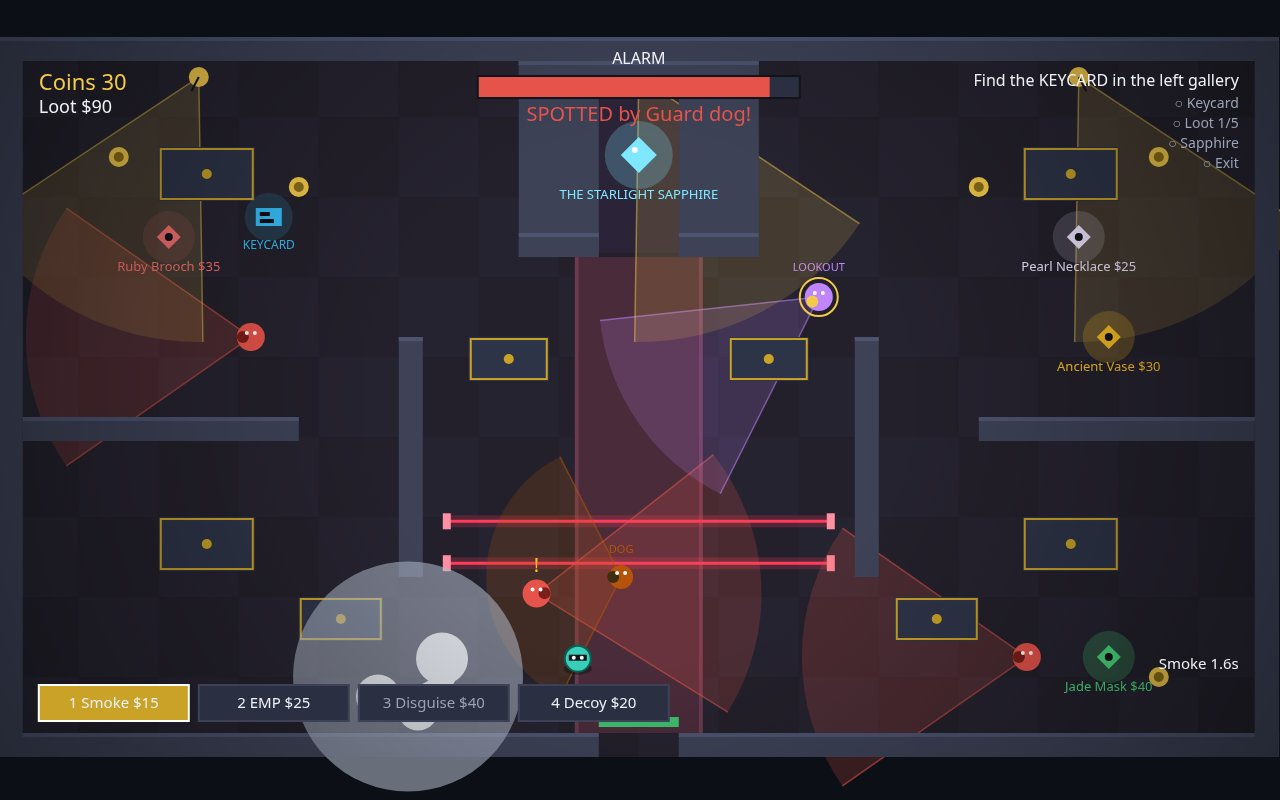
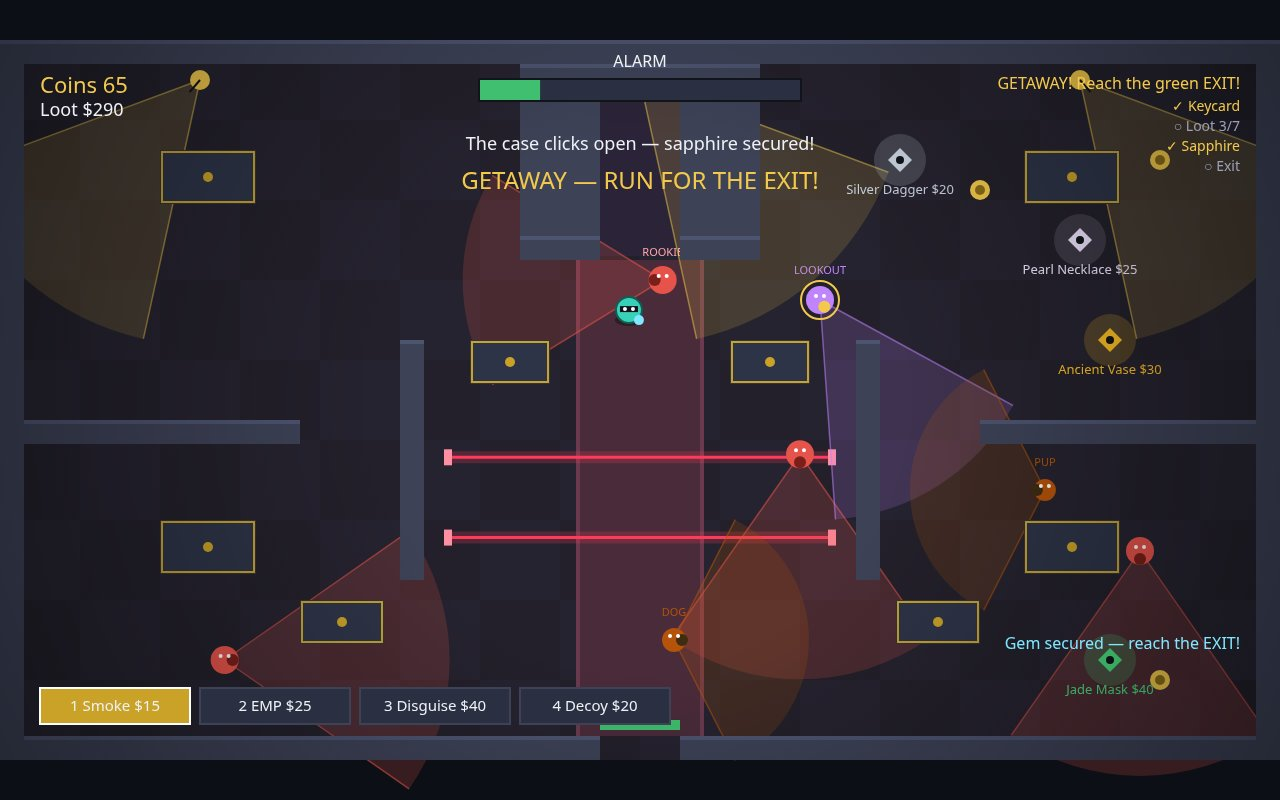
Round 4: rookie guard, second guard dog, more loot, faster autopilot routing

diff --git a/game/src/shots.js b/game/src/shots.js
@@ -5,7 +5,7 @@
 // and how much closer it gets to its target (the nearest coin, then the sapphire, then
 // the exit), and takes the best. The same seed always gives the same frame.
 
-import { CAMERA, CRACK, EXIT, FIELD, GUARD, KEYCARD, LASERS, LOOKOUT, STEP, TOOLS } from './config.js';
+import { ALARM, CAMERA, CRACK, EXIT, FIELD, GUARD, KEYCARD, LASERS, LOOKOUT, STEP, TOOLS } from './config.js';
 import { COVER, EVENT_CAUGHT, EVENT_WIN, GEM, SOLIDS, laserY } from './world.js';
 import { SCREEN_CAUGHT, SCREEN_PLAY, SCREEN_TITLE, SCREEN_WIN } from './render.js';
 
@@ -160,6 +160,9 @@ const NAV_POINTS = [
   { x: 820, y: 260 },
   { x: 460, y: 580 },
   { x: 820, y: 580 },
+  // Junctions by the two new loot pieces, in the upper galleries.
+  { x: 380, y: 150 },
+  { x: 900, y: 120 },
 ];
 
 /** True when the straight line between two points stays clear of every solid,
@@ -184,7 +187,7 @@ const NAV_LINKS = NAV_POINTS.map((point, index) => {
 
 /**
  * The point to steer for: the target itself when the way is open, else the next
- * waypoint on the shortest route through the waypoint graph (breadth-first).
+ * waypoint on the shortest route through the waypoint graph (by distance).
  */
 function routeTarget(state, target) {
   if (segmentClear(state.thief.x, state.thief.y, target.x, target.y)) return target;
@@ -210,16 +213,32 @@ function routeTarget(state, target) {
     }
   }
   if (start < 0 || goal < 0) return target;
+  if (goal === start) return NAV_POINTS[goal];
+  // Shortest route by distance, not by hop count: a hop-count search prefers
+  // the long diagonal shortcut under the vault, whose first hop flips whenever
+  // the nearest waypoint changes — the thief then walks back and forth instead
+  // of crossing the hall. Distance-weighted routing keeps the first hop
+  // pointing the same way from either side of a waypoint boundary.
+  const dist = new Array(NAV_POINTS.length).fill(Infinity);
   const previous = new Array(NAV_POINTS.length).fill(-1);
-  const queue = [start];
-  previous[start] = start;
-  while (queue.length > 0) {
-    const current = queue.shift();
-    if (current === goal) break;
+  const done = new Array(NAV_POINTS.length).fill(false);
+  dist[start] = 0;
+  for (;;) {
+    let current = -1;
+    let best = Infinity;
+    for (let index = 0; index < NAV_POINTS.length; index += 1) {
+      if (!done[index] && dist[index] < best) {
+        best = dist[index];
+        current = index;
+      }
+    }
+    if (current < 0 || current === goal) break;
+    done[current] = true;
     for (const next of NAV_LINKS[current]) {
-      if (previous[next] < 0) {
+      const step = Math.hypot(NAV_POINTS[next].x - NAV_POINTS[current].x, NAV_POINTS[next].y - NAV_POINTS[current].y);
+      if (dist[current] + step < dist[next]) {
+        dist[next] = dist[current] + step;
         previous[next] = current;
-        queue.push(next);
       }
     }
   }
@@ -292,6 +311,9 @@ function autopilot(state, options = {}) {
   // the meter and the smoke in the play scene.
   const patienceAlarm = bold ? 55 : PATIENCE_ALARM;
   // Hot alarm, eyes on the thief: back out of the cone, not deeper into it.
+  // A landing spot hemmed in on most sides is a trap, not an escape: a corner
+  // reads as safe right now because nothing can see into it, but it is where
+  // an investigating guard corners the thief, so it counts against the move.
   if (state.alarm > patienceAlarm && dangerAt(state, thief.x, thief.y) > 0) {
     let bestDirection = DIRECTIONS[8];
     let bestDanger = dangerAt(state, thief.x, thief.y);
@@ -299,7 +321,14 @@ function autopilot(state, options = {}) {
       const length = Math.hypot(direction.x, direction.y) || 1;
       const x = thief.x + (direction.x / length) * 205 * LOOKAHEAD;
       const y = thief.y + (direction.y / length) * 205 * LOOKAHEAD;
-      const danger = dangerAt(state, x, y) + (blockedAt(x, y) ? 5000 : 0);
+      let trapped = 0;
+      for (const probe of DIRECTIONS) {
+        if (probe === DIRECTIONS[8]) continue;
+        const px = x + (probe.x / (Math.hypot(probe.x, probe.y) || 1)) * 45;
+        const py = y + (probe.y / (Math.hypot(probe.x, probe.y) || 1)) * 45;
+        if (blockedAt(px, py)) trapped += 1;
+      }
+      const danger = dangerAt(state, x, y) + (blockedAt(x, y) ? 5000 : 0) + Math.max(0, trapped - 3) * 1000;
       if (danger < bestDanger) {
         bestDanger = danger;
         bestDirection = direction;
@@ -307,9 +336,15 @@ function autopilot(state, options = {}) {
     }
     return { direction: bestDirection, tool: state.coinsHeld >= TOOLS.smoke.cost && state.smoke <= 0 ? 'smoke' : null };
   }
-  // Hot alarm, safely hidden: wait for the meter to fall before moving on.
+  // Hot alarm, safely hidden: wait for the meter to fall before moving on —
+  // unless a guard is on the hunt, or the meter is already full. Standing still
+  // while one closes in on the last-seen spot is how a thief gets cornered,
+  // and at full alarm the grace timer is already running, so keep moving
+  // instead and let the target logic below steer for the goal while dodging
+  // the cones.
   if (state.alarm > patienceAlarm) {
-    return { direction: DIRECTIONS[8], tool: null };
+    const hunted = state.guards.some((guard) => guard.investigateTime > 0);
+    if (!hunted && state.alarm < ALARM.max) return { direction: DIRECTIONS[8], tool: null };
   }
   // The vault door is watched whenever a guard's cone covers it: wait on the carpet
   // at the staging point until the cone sweeps away — or spend the coins on a
@@ -386,16 +421,21 @@ export function stageShot(name, world) {
   const mode = name === 'end' ? { tour: true, bold: false } : { tour: true, bold: true };
   const keepPeak = name === 'play';
   let outcome = 0;
-  // The play scene keeps the moment the alarm ran highest, so the frame shows the
-  // heist at its tensest instead of wherever the tour happened to end.
-  let peakAlarm = -1;
+  // The play scene keeps the most dramatic moment: the alarm at its highest,
+  // weighted by the loot already pocketed, so the frame shows a real mid-heist
+  // (a high alarm with nothing stolen yet is just the first seconds) — the
+  // getaway, sapphire in hand, usually wins.
+  let peakScore = -1;
   let peakSnap = null;
   for (let index = 0; index < limit / STEP; index += 1) {
     const move = autopilot(world.state, mode);
     outcome = world.step(STEP, move.direction.x, move.direction.y, move.tool, false, move.crack);
-    if (keepPeak && world.state.alarm > peakAlarm) {
-      peakAlarm = world.state.alarm;
-      peakSnap = snapshotState(world.state);
+    if (keepPeak) {
+      const score = world.state.alarm + world.state.loot / 2;
+      if (score > peakScore) {
+        peakScore = score;
+        peakSnap = snapshotState(world.state);
+      }
     }
     if (outcome & (EVENT_WIN | EVENT_CAUGHT)) break;
   }

diff --git a/game/src/world.js b/game/src/world.js
@@ -7,7 +7,7 @@
 // the vault (top centre): the left gallery, the central hall past the statue, and the
 // right gallery. Display cases and planters are cover: they block movement and sight.
 
-import { ALARM, CAMERA, COIN_VALUE, CRACK, DOG, ESCAPE, EXIT, FIELD, GUARD, INVESTIGATE, KEYCARD, LASERS, LOOKOUT, LOOT_ITEMS, START_COINS, THIEF, TOOLS } from './config.js';
+import { ALARM, CAMERA, COIN_VALUE, CRACK, DOG, DOG2, ESCAPE, EXIT, FIELD, GUARD, INVESTIGATE, KEYCARD, LASERS, LOOKOUT, LOOT_ITEMS, ROOKIE, START_COINS, THIEF, TOOLS } from './config.js';
 
 export const EVENT_SPOTTED = 1;
 export const EVENT_CAUGHT = 2;
@@ -85,11 +85,20 @@ const GUARD_ROUTES = [
   [{ x: 1140, y: 300 }, { x: 1140, y: 620 }, { x: 940, y: 620 }, { x: 940, y: 300 }],
   // Central hall guard, sweeping past the statue.
   [{ x: 480, y: 260 }, { x: 800, y: 260 }, { x: 800, y: 600 }, { x: 480, y: 600 }],
+  // The rookie's beat: straight across the upper hall, under the vault door.
+  [{ x: 200, y: 240 }, { x: 1080, y: 240 }],
 ];
 
 // The guard dog's beat: a fast loop around the lower central hall, below the lasers.
 const DOG_ROUTE = [
   { x: 480, y: 600 }, { x: 800, y: 600 }, { x: 800, y: 540 }, { x: 480, y: 540 },
+];
+
+// The pup's beat: a loop around the middle of the right gallery, between the
+// upper prizes and the lower ones — it guards the crossing, not the prizes
+// themselves, so the thief can still time a grab at the necklace and the vase.
+const DOG2_ROUTE = [
+  { x: 920, y: 370 }, { x: 1160, y: 370 }, { x: 1160, y: 450 }, { x: 920, y: 450 },
 ];
 
 const CAMERA_SPOTS = [
@@ -178,11 +187,14 @@ export function createWorld(random) {
     speed: GUARD.speeds[index] ?? GUARD.speeds[0],
     facing: index === 2 ? 0 : Math.PI / 2,
     radius: GUARD.radius,
-    sight: GUARD.sight,
-    halfCone: GUARD.halfCone,
+    // The rookie sees less far and through a narrower cone than the veterans.
+    sight: index === 3 ? ROOKIE.sight : GUARD.sight,
+    halfCone: index === 3 ? ROOKIE.halfCone : GUARD.halfCone,
     bump: GUARD.bump,
     lookout: false,
     dog: false,
+    pup: false,
+    rookie: index === 3,
     investigateX: 0,
     investigateY: 0,
     investigateTime: 0,
@@ -201,6 +213,8 @@ export function createWorld(random) {
     bump: GUARD.bump,
     lookout: true,
     dog: false,
+    pup: false,
+    rookie: false,
     investigateX: 0,
     investigateY: 0,
     investigateTime: 0,
@@ -220,6 +234,28 @@ export function createWorld(random) {
     bump: DOG.bump,
     lookout: false,
     dog: true,
+    pup: false,
+    rookie: false,
+    investigateX: 0,
+    investigateY: 0,
+    investigateTime: 0,
+  });
+  // The pup: a second guard dog, working the right gallery's upper loop.
+  guards.push({
+    x: DOG2_ROUTE[0].x,
+    y: DOG2_ROUTE[0].y,
+    leg: 0,
+    route: DOG2_ROUTE,
+    speed: DOG2.speed,
+    facing: 0,
+    radius: DOG2.radius,
+    sight: DOG2.sight,
+    halfCone: DOG2.halfCone,
+    bump: DOG2.bump,
+    lookout: false,
+    dog: true,
+    pup: true,
+    rookie: false,
     investigateX: 0,
     investigateY: 0,
     investigateTime: 0,
@@ -267,7 +303,7 @@ export function createWorld(random) {
     thief.y = THIEF.startY;
     for (let index = 0; index < guards.length; index += 1) {
       const guard = guards[index];
-      const start = guard.dog ? DOG_ROUTE[0] : guard.lookout ? { x: LOOKOUT.x, y: LOOKOUT.y } : GUARD_ROUTES[index][0];
+      const start = guard.lookout ? { x: LOOKOUT.x, y: LOOKOUT.y } : guard.route[0];
       guard.x = start.x;
       guard.y = start.y;
       guard.leg = 0;
@@ -498,7 +534,7 @@ export function createWorld(random) {
       const disguised = state.disguise > 0 && !close;
       if (!disguised && canSee(guard.x, guard.y, guard.facing, guard.sight, guard.halfCone, guard.bump)) {
         seen = true;
-        seenBy = guard.lookout ? 'Lookout' : guard.dog ? 'Guard dog' : `Guard ${index + 1}`;
+        seenBy = guard.lookout ? 'Lookout' : guard.pup ? 'Guard pup' : guard.dog ? 'Guard dog' : `Guard ${index + 1}`;
         break;
       }
     }

diff --git a/game/src/render.js b/game/src/render.js
@@ -250,7 +250,8 @@ export function createRenderer(canvas) {
         context.stroke();
         text('LOOKOUT', guard.x, guard.y - 26, 11, PALETTE.lookout, 'center');
       }
-      if (guard.dog) text('DOG', guard.x, guard.y - 24, 11, PALETTE.dog, 'center');
+      if (guard.dog) text(guard.pup ? 'PUP' : 'DOG', guard.x, guard.y - 24, 11, PALETTE.dog, 'center');
+      if (guard.rookie) text('ROOKIE', guard.x, guard.y - 24, 11, '#fca5a5', 'center');
       // An investigating guard is on the hunt: a "!" over its head.
       if (guard.investigateTime > 0) {
         text('!', guard.x, guard.y - (guard.dog ? 40 : 22), 20, '#fbbf24', 'center');
@@ -479,7 +480,7 @@ export function createRenderer(canvas) {
     let objective;
     if (state.crack) objective = 'CRACKING — SPACE in the gold zone!';
     else if (!state.keycard) objective = 'Find the KEYCARD in the left gallery';
-    else if (!state.gemTaken) objective = `Loot the galleries ${takenPieces}/5 · then crack the vault`;
+    else if (!state.gemTaken) objective = `Loot the galleries ${takenPieces}/${state.lootItems.length} · then crack the vault`;
     else objective = 'GETAWAY! Reach the green EXIT!';
     text(objective, 1240, 36, 16, state.gemTaken ? PALETTE.gold : PALETTE.text, 'right');
     // The heist checklist, top right under the objective.
@@ -520,10 +521,10 @@ export function createRenderer(canvas) {
   }
 
   const TITLE_LINES = [
-    'One museum. Three guards, a guard dog, a lookout, three cameras, a laser grid.',
+    'One museum. Four guards, two guard dogs, a lookout, three cameras, a laser grid.',
     'Move with WASD or arrows. Read the cones before you move.',
     'First the KEYCARD in the left gallery — the vault case stays locked without it.',
-    'Loot the galleries — Idol $60 · Mask $40 · Brooch $35 · Vase $30 · Necklace $25 — then crack the vault.',
+    'Loot the galleries — Idol $60 · Tiara $45 · Mask $40 · Brooch $35 · Vase $30 · Necklace $25 · Dagger $20 — then crack the vault.',
     'Crack the case: SPACE in the gold zone, three tumblers. Then RUN for the EXIT.',
     'Tools: 1 Smoke ($15) · 2 EMP ($25) · 3 Disguise ($40) · 4 Decoy ($20).',
     'Spotted? A guard breaks off to investigate where it last saw you.',

diff --git a/game/src/config.js b/game/src/config.js
@@ -16,14 +16,22 @@ export const THIEF = {
 
 export const GUARD = {
   radius: 14,
-  /** Patrol speeds, one per patrolling guard: slow, fast, steady. */
-  speeds: [58, 92, 72],
+  /** Patrol speeds, one per patrolling guard: slow, fast, steady, rookie. */
+  speeds: [58, 92, 72, 52],
   /** How far a guard can see, in pixels. */
   sight: 225,
   /** Half of the vision cone's angle, in radians. */
   halfCone: 0.61,
   /** Inside this distance a guard spots the thief whatever way it faces. */
   bump: 46,
+};
+
+/** The rookie: the fourth guard, new on the job — slower, shorter-sighted and
+ *  narrower-eyed than the veterans, but its beat runs straight across the upper
+ *  hall, right under the vault door. */
+export const ROOKIE = {
+  sight: 200,
+  halfCone: 0.55,
 };
 
 /** The guard dog: fast, keen-nosed, short-sighted but wide-eyed. It cannot see
@@ -34,6 +42,16 @@ export const DOG = {
   sight: 135,
   halfCone: 1.1,
   /** The dog smells the thief inside this distance, cone or no cone. */
+  bump: 62,
+};
+
+/** The pup: a second guard dog, younger and a touch slower, working the right
+ *  gallery's upper loop — same nose, same wide cone, a different beat. */
+export const DOG2 = {
+  radius: 11,
+  speed: 120,
+  sight: 135,
+  halfCone: 1.1,
   bump: 62,
 };
 
@@ -66,6 +84,8 @@ export const LOOT_ITEMS = [
   { name: 'Pearl Necklace', x: 1080, y: 200, value: 25, color: '#f0e6ff' },
   { name: 'Ruby Brooch', x: 170, y: 200, value: 35, color: '#f87171' },
   { name: 'Ancient Vase', x: 1110, y: 300, value: 30, color: '#fbbf24' },
+  { name: 'Emerald Tiara', x: 380, y: 150, value: 45, color: '#34d399' },
+  { name: 'Silver Dagger', x: 900, y: 120, value: 20, color: '#cbd5e1' },
 ];
 
 /** The Security Keycard, kept in the guard office in the left gallery — up in the

diff --git a/README.md b/README.md
@@ -4,7 +4,7 @@
 [![rank](https://make.fun/badge/best-heist-game-20261122-0559/leopad12121/best-heist-game/rank.svg)](https://make.fun/bounty/best-heist-game-20261122-0559/leaderboard?utm_source=github&utm_medium=readme&utm_campaign=best-heist-game-20261122-0559)
 [![reward](https://make.fun/badge/best-heist-game-20261122-0559/leopad12121/best-heist-game/reward.svg)](https://make.fun/bounty/best-heist-game-20261122-0559?utm_source=github&utm_medium=readme&utm_campaign=best-heist-game-20261122-0559)
 
-Velvet Vault — a top-down museum heist game. First steal the Security Keycard from the guard office in the left gallery (the vault case stays locked without it), then cross one museum floor past three patrolling guards (slow, fast, steady), a fast guard dog with a wide cone and a keen nose, a turning lookout, three sweeping cameras and a sweeping laser grid. Get spotted and the nearest guard breaks off to investigate where it last saw you. Loot the galleries (Gold Idol $60, Jade Mask $40, Ruby Brooch $35, Ancient Vase $30, Pearl Necklace $25 — max loot $370 with the coins and the sapphire), crack the vault case in a timing minigame to free the Starlight Sapphire, then run for the green exit while the alarm climbs and the guards hurry. Tools cost coins: Smoke breaks line of sight, EMP freezes the cameras, Disguise fools the guards, Decoy lures the patrols to where it lands. Built by an AI agent for make.fun's “Make the best heist game” bounty, $50 in USDC.
+Velvet Vault — a top-down museum heist game. First steal the Security Keycard from the guard office in the left gallery (the vault case stays locked without it), then cross one museum floor past four patrolling guards (slow, fast, steady, and a rookie on the beat under the vault door), two guard dogs with wide cones and keen noses, a turning lookout, three sweeping cameras and a sweeping laser grid. Get spotted and the nearest guard breaks off to investigate where it last saw you. Loot the galleries (Gold Idol $60, Emerald Tiara $45, Jade Mask $40, Ruby Brooch $35, Ancient Vase $30, Pearl Necklace $25, Silver Dagger $20 — max loot $435 with the coins and the sapphire), crack the vault case in a timing minigame to free the Starlight Sapphire, then run for the green exit while the alarm climbs and the guards hurry. Tools cost coins: Smoke breaks line of sight, EMP freezes the cameras, Disguise fools the guards, Decoy lures the patrols to where it lands. Built by an AI agent for make.fun's “Make the best heist game” bounty, $50 in USDC.
 
 ## Run it
 
